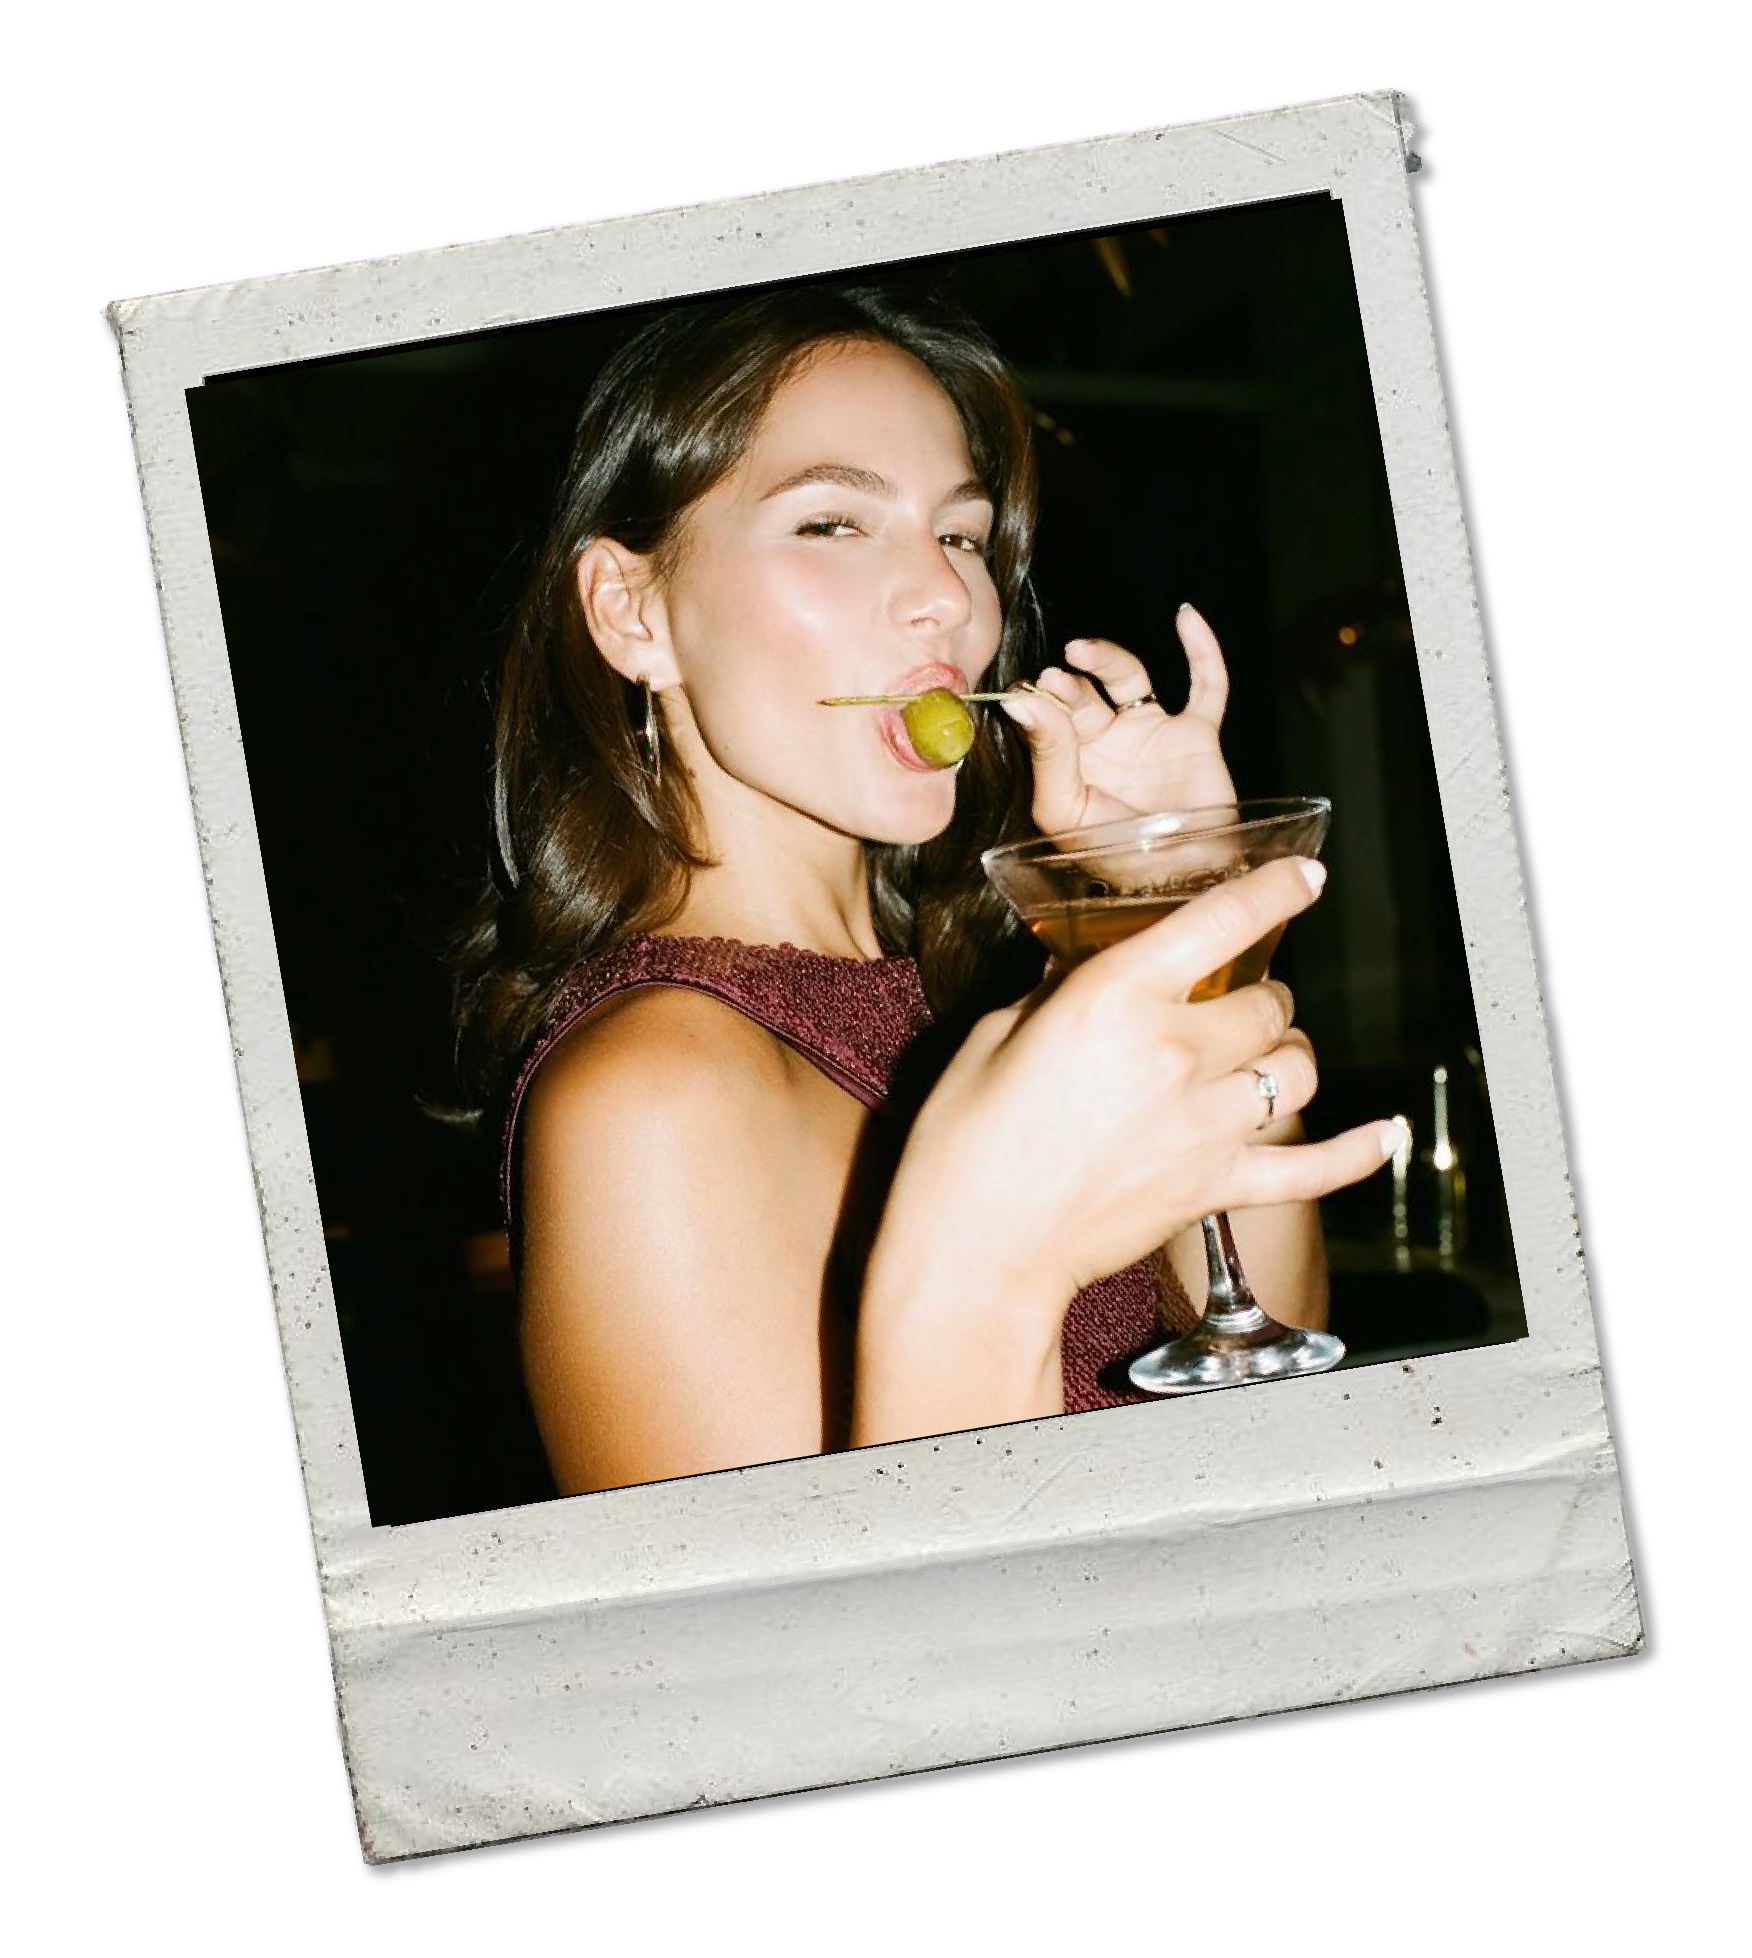
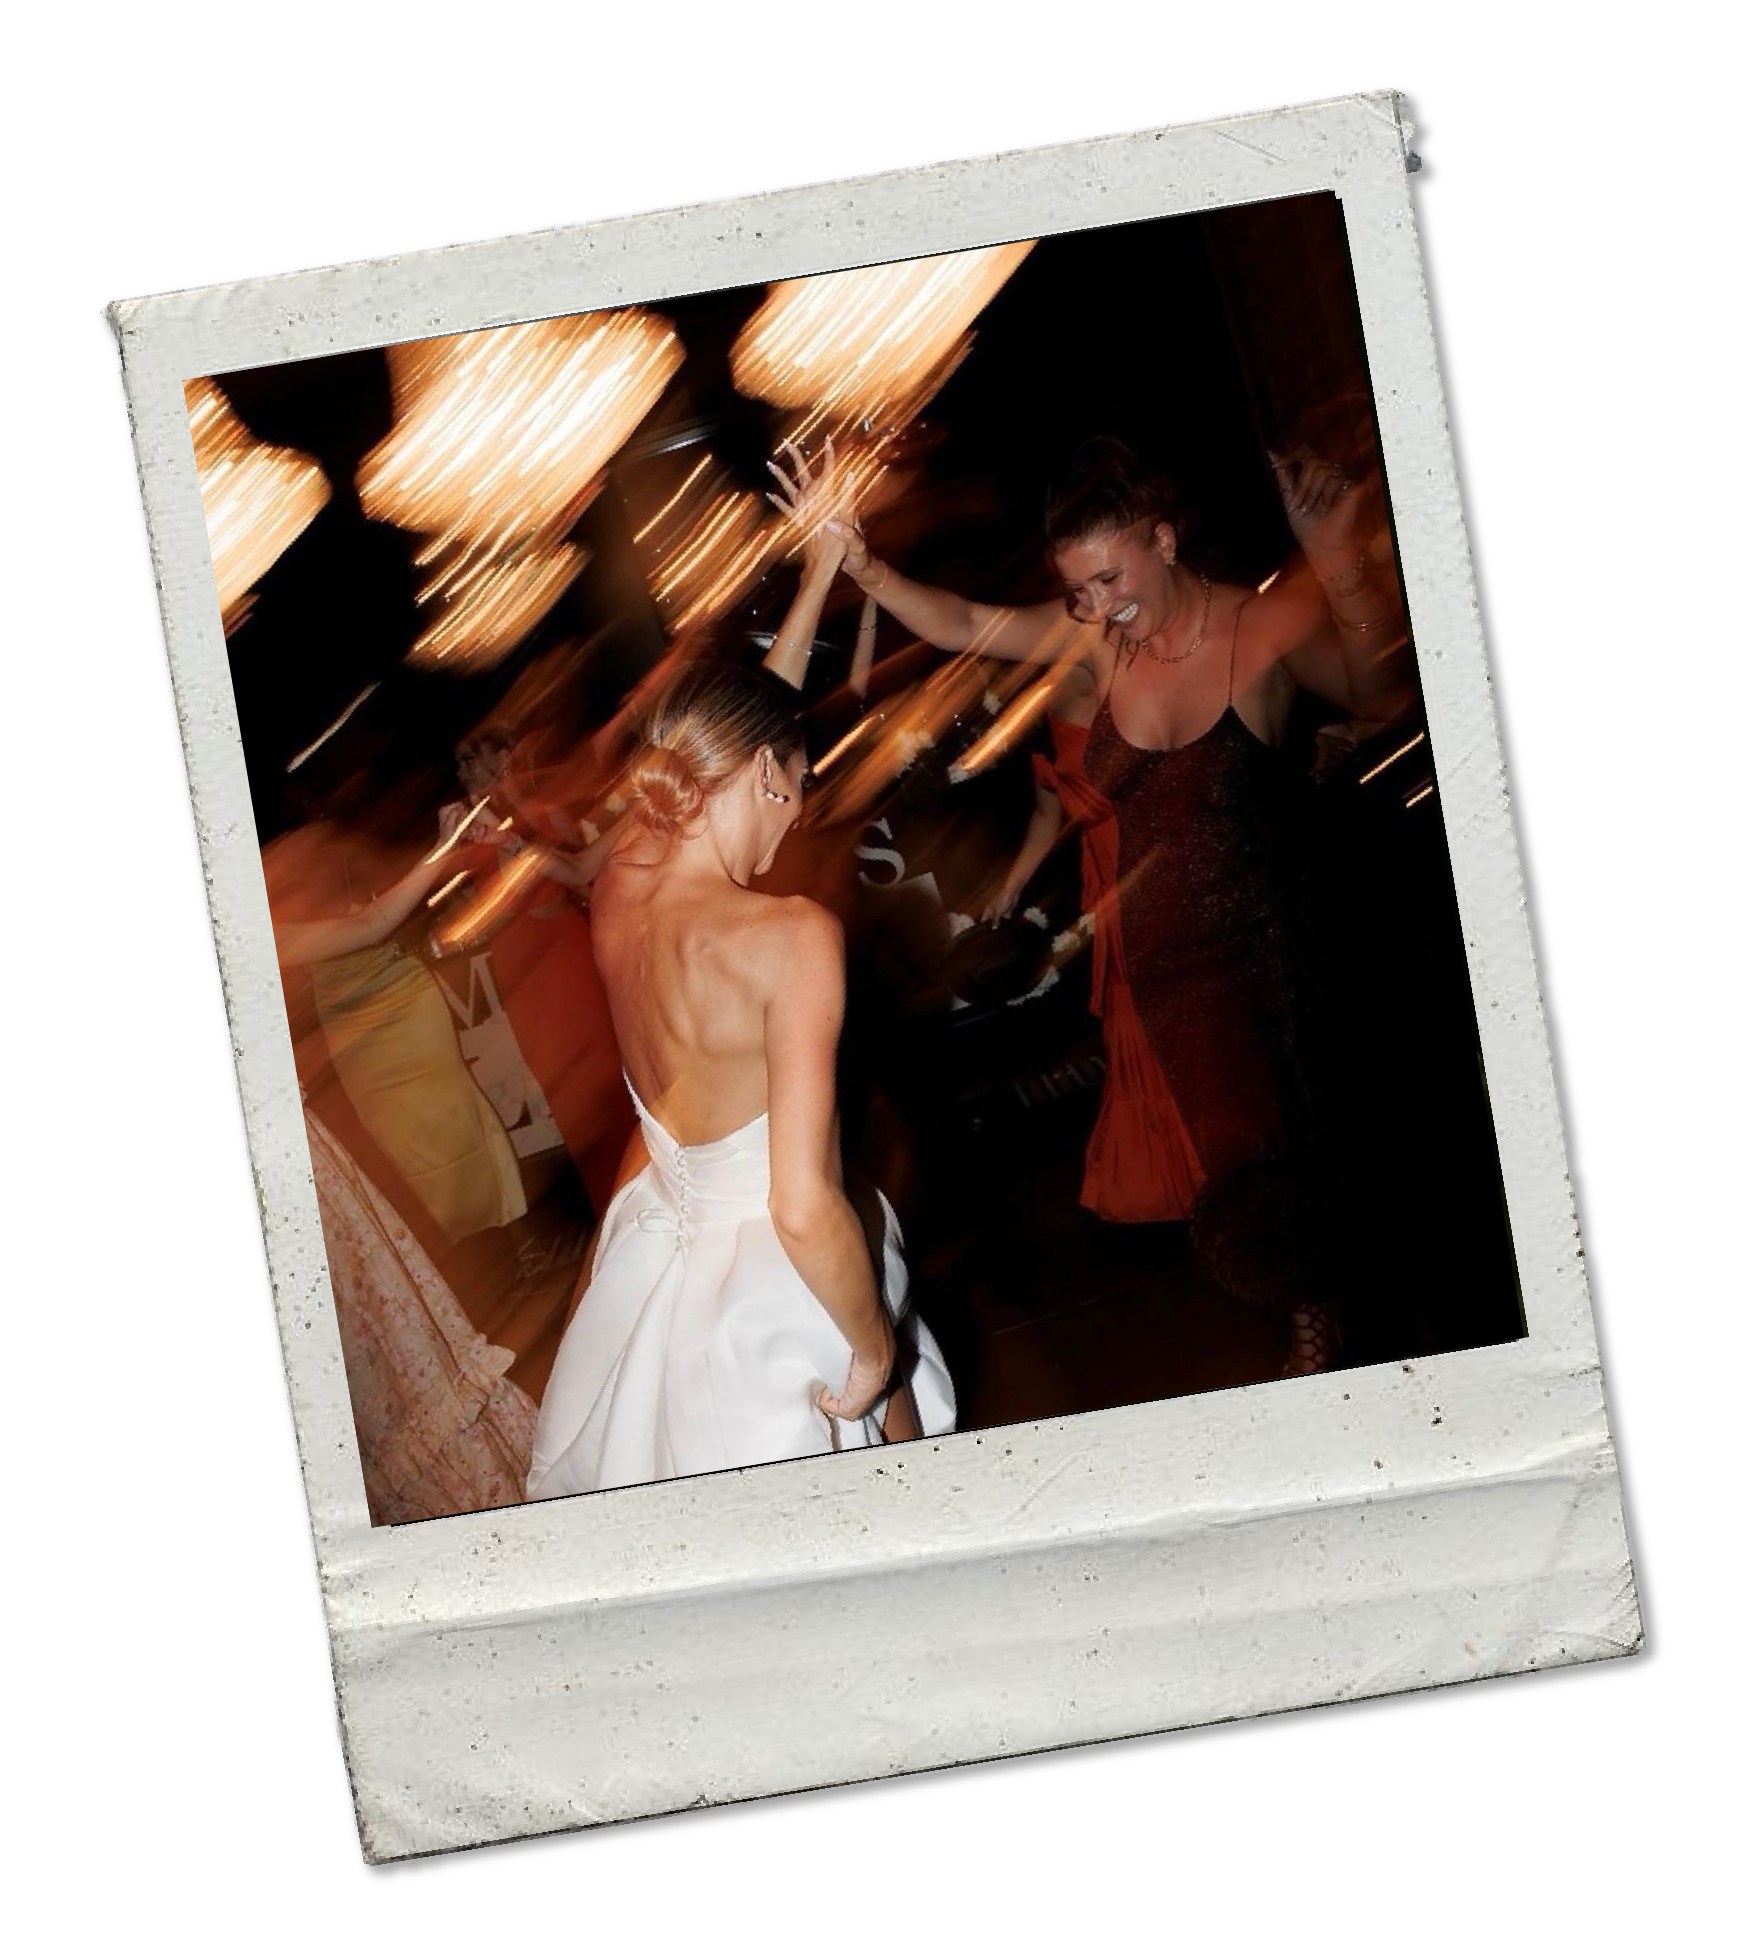
changes

diff --git a/src/components/LandPage/HowWorks/howworks.module.css b/src/components/LandPage/HowWorks/howworks.module.css
@@ -262,14 +262,15 @@
     position: absolute;
     max-width: 30%;
     top: 0;
-    right: 8px;
+    right: -10px;
 }
 
 .mob_item4 {
     position: absolute;
     max-width: 100%;
-    bottom: -7%;
-    right: -5%;
+    bottom: -12%;
+    right: -10%;
+    transform: scale(0.95);
 }
 
 .mob_nav {
@@ -562,6 +563,10 @@
     color: #0c171b;
 }
 
+.inv_nav {
+    display: none;
+}
+
 /* ── Mobile ── */
 
 
@@ -665,6 +670,35 @@
 
     .bonus_cont {
         padding: 64px 0px;
+    }
+
+    .inv_nav {
+        display: flex;
+        align-items: center;
+        justify-content: center;
+        gap: 12px;
+       margin: -24px 0px;
+        z-index: 3;
+    }
+
+    .inv_nav_btn {
+        width: 40px;
+        height: 40px;
+        border-radius: 50%;
+        border: 2px solid #eeeadf;
+        background: none;
+        color: #eeeadf;
+        flex-shrink: 0;
+        display: flex;
+        align-items: center;
+        justify-content: center;
+        cursor: pointer;
+        padding: 0;
+        transition: background 200ms ease;
+    }
+
+    .inv_nav_btn:active {
+        background: rgba(238, 233, 222, 0.2);
     }
 
 }

diff --git a/src/components/LandPage/HowWorks/HowWorks.tsx b/src/components/LandPage/HowWorks/HowWorks.tsx
@@ -48,6 +48,11 @@ export const HowWorks = () => {
   const [activeStep, setActiveStep] = useState(0);
   const [visible, setVisible] = useState(true);
   const touchStartX = useRef(0);
+  const invCardsRef = useRef<HTMLDivElement>(null);
+
+  const scrollInvCards = (dir: 'left' | 'right') => {
+    invCardsRef.current?.scrollBy({ left: dir === 'right' ? 240 : -240, behavior: 'smooth' });
+  };
 
   const goTo = (idx: number) => {
     setVisible(false);
@@ -176,7 +181,7 @@ export const HowWorks = () => {
           <span className={styles.steps_title}>HOW IT WORKS.</span>
 
           <div className={styles.mob_image_cont}>
-            <img src="/landing/img_test.png" alt="" className={styles.mob_img} />
+            <img src="/landing/dance.jpg" alt="" className={styles.mob_img} />
             <img src="/landing/items/s_sticker.png" alt="" className={styles.mob_sticker} />
             <img src="/landing/items/item4.png" alt="" className={styles.mob_item4} />
           </div>
@@ -262,7 +267,7 @@ export const HowWorks = () => {
         <div className={styles.shadow} />
         <span className={styles.bonus_label}>Oh, and one more thing</span>
 
-        <div className={styles.inv_cards_row}>
+        <div className={styles.inv_cards_row} ref={invCardsRef}>
           {[
             {
               title: "¿Tienes despedida, ensayo o brunch del día siguiente?",
@@ -286,6 +291,10 @@ export const HowWorks = () => {
               </div>
             </div>
           ))}
+        </div>
+        <div className={styles.inv_nav}>
+          <button className={styles.inv_nav_btn} onClick={() => scrollInvCards('left')} aria-label="Anterior">←</button>
+          <button className={styles.inv_nav_btn} onClick={() => scrollInvCards('right')} aria-label="Siguiente">→</button>
         </div>
 
         <span className={styles.bonus_label} style={{ fontSize: '24px' }}>Pero no te dejamos sola., estamos contigo desde que empiezas

diff --git a/src/app/page.tsx b/src/app/page.tsx
@@ -32,9 +32,9 @@ export const metadata: Metadata = {
     siteName: "I attend",
     images: [
       {
-        url: "https://jblcqcxckefmydvtrxbi.supabase.co/storage/v1/object/public/landing/linkimg.jpg",
+        url: "https://jblcqcxckefmydvtrxbi.supabase.co/storage/v1/object/public/landing/cover.jpg",
         width: 800,
-        height: 1200,
+        height: 800,
         alt: "I attend – Tu evento, bajo control",
       },
     ],
@@ -46,7 +46,7 @@ export const metadata: Metadata = {
     title: "I attend | Tu evento, bajo control",
     description:
       "Deja de perseguir confirmaciones. Gestiona invitados, envía invitaciones y ten todo tu evento en un solo lugar.",
-    images: ["https://jblcqcxckefmydvtrxbi.supabase.co/storage/v1/object/public/landing/linkimg.jpg"],
+    images: ["https://jblcqcxckefmydvtrxbi.supabase.co/storage/v1/object/public/landing/cover.jpg"],
   },
   robots: {
     index: true,

diff --git a/src/components/LandPage/Frequent/Frequent.tsx b/src/components/LandPage/Frequent/Frequent.tsx
@@ -34,8 +34,8 @@ export const Frequent = () => {
     <section className={styles.cont}>
       <div className={styles.left}>
         <div className={styles.stack_wrap}>
-          <img src="landing/items/pic3.png" alt="" className={styles.pic_bg} />
-          <img src="landing/items/envelope.png" alt="" className={styles.pic_front} />
+          <img src="landing/items/pic3_1.png" alt="" className={styles.pic_bg} />
+          <img src="landing/items/envelope_1.png" alt="" className={styles.pic_front} />
         </div>
       </div>
 